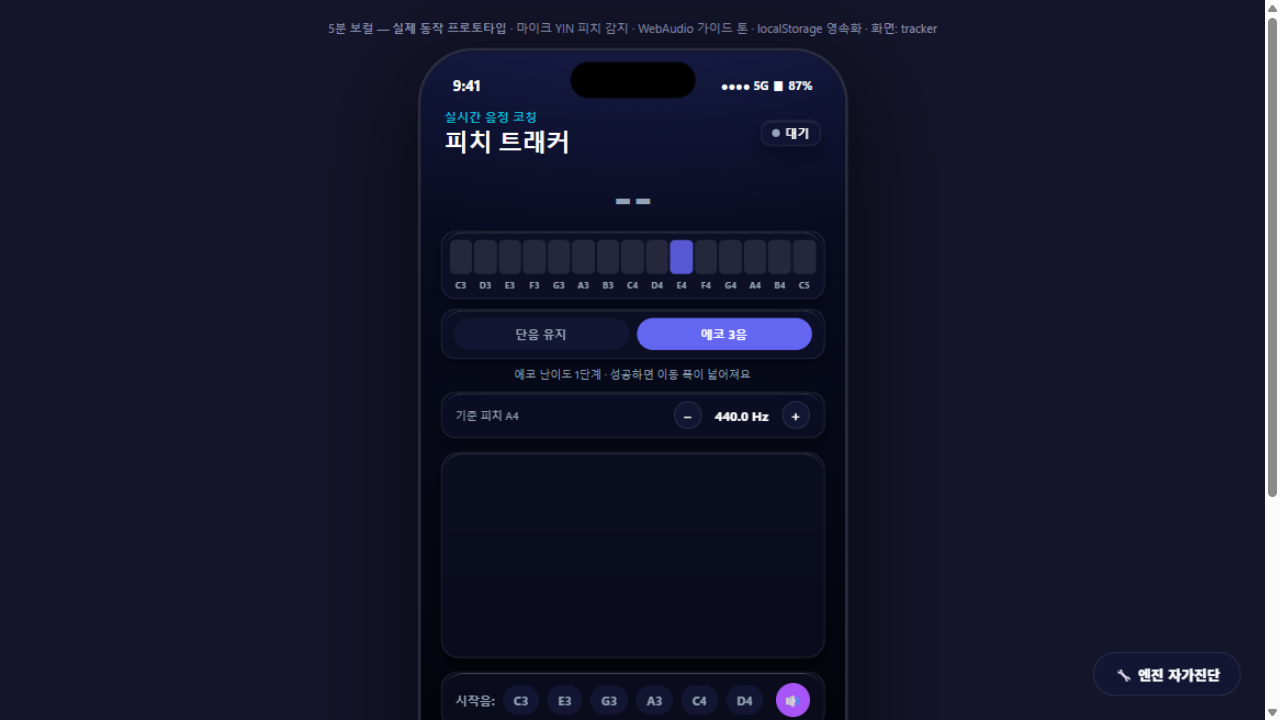
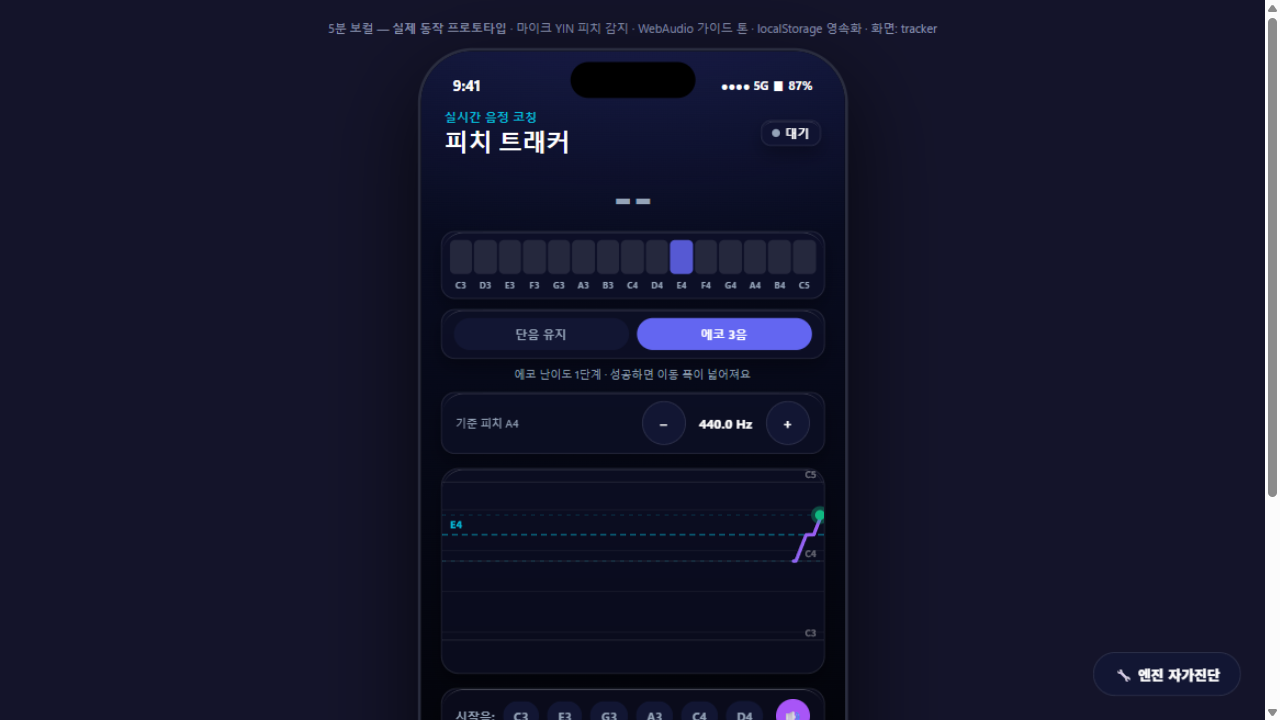
feat: 비전 QA 하네스(#qa 시드) + 44pt 터치타깃 + 칩 스크롤 페이드 + 활성 상태 스크린샷

diff --git a/preview/live.html b/preview/live.html
@@ -771,9 +771,9 @@ function screenTracker(){
 
  <div class="glass" style="margin:10px 20px 0;padding:8px 14px;display:flex;align-items:center;gap:10px;border-radius:14px;">
  <span class="cap2" style="color:var(--text-secondary);">기준 피치 A4</span><div style="flex:1"></div>
- <span class="btn-ghost" style="width:28px;height:28px;border-radius:50%;padding:0;display:flex;align-items:center;justify-content:center;" onclick="setA4(-0.5)">−</span>
+ <span class="btn-ghost" style="width:44px;height:44px;border-radius:50%;padding:0;display:flex;align-items:center;justify-content:center;" onclick="setA4(-0.5)">−</span>
  <span style="font-size:13px;font-weight:800;font-variant-numeric:tabular-nums;min-width:60px;text-align:center;">${a4Ref().toFixed(1)} Hz</span>
- <span class="btn-ghost" style="width:28px;height:28px;border-radius:50%;padding:0;display:flex;align-items:center;justify-content:center;" onclick="setA4(0.5)">+</span>
+ <span class="btn-ghost" style="width:44px;height:44px;border-radius:50%;padding:0;display:flex;align-items:center;justify-content:center;" onclick="setA4(0.5)">+</span>
  </div>
 
  <div class="glass" style="margin:14px 20px 0;height:206px;border-radius:18px;position:relative;overflow:hidden;">
@@ -1140,10 +1140,10 @@ function screenLab(){
  oninput="labSearch(this.value)">
  </div>
 
- <div style="display:flex;gap:8px;padding:12px 20px 4px;overflow:hidden;">
- <span class="chip ${!App.lab.cat && !App.lab.favOnly?'on':''}" onclick="labFilter(null)">전체 보기</span>
- <span class="chip ${App.lab.favOnly?'on':''}" style="${App.lab.favOnly?'background:var(--vocal-warning);':''}" onclick="labFav()">★ 즐겨찾기 ${favs.size}</span>
- ${CAT_LIST.map(([id,name,e])=>`<span class="chip ${App.lab.cat===id?'on':''}" onclick="labFilter('${id}')">${e} ${name}</span>`).join("")}
+ <div style="display:flex;gap:8px;padding:12px 20px 4px;overflow-x:auto;-webkit-mask-image:linear-gradient(90deg,#000 90%,transparent);mask-image:linear-gradient(90deg,#000 90%,transparent);">
+ <span class="chip ${!App.lab.cat && !App.lab.favOnly?'on':''}" style="flex-shrink:0;" onclick="labFilter(null)">전체 보기</span>
+ <span class="chip ${App.lab.favOnly?'on':''}" style="flex-shrink:0;${App.lab.favOnly?'background:var(--vocal-warning);':''}" onclick="labFav()">★ 즐겨찾기 ${favs.size}</span>
+ ${CAT_LIST.map(([id,name,e])=>`<span class="chip ${App.lab.cat===id?'on':''}" style="flex-shrink:0;" onclick="labFilter('${id}')">${e} ${name}</span>`).join("")}
  </div>
 
  ${(!App.lab.cat && !App.lab.q && !App.lab.favOnly) ? `
@@ -1352,6 +1352,40 @@ window.runSelfTest = runSelfTest;
 document.getElementById("selftest").addEventListener("click", () => runSelfTest());
 
 // 시작
+// ---------- 비전 QA·비주얼 회귀 하네스: #qa=<base64 JSON> ----------
+// 부팅 시 1회 상태를 시딩한다. 프로덕션 동작에는 영향 없음(해시 없으면 무시).
+(function(){
+ const m = location.hash.match(/qa=([^&]+)/);
+ if (!m) return;
+ try {
+  const seed = JSON.parse(atob(decodeURIComponent(m[1])));
+  if (seed.onboarded) finishOnboarding();
+  if (seed.pitchRecords) Store.data.pitchRecords = seed.pitchRecords;
+  if (seed.sessions) Store.data.sessions = seed.sessions;
+  if (seed.range) Store.data.range = seed.range;
+  Store.save();
+  if (seed.screen) go(seed.screen);
+  if (seed.tracker){
+   go("tracker");
+   const t = seed.tracker;
+   if (t.mode) setTrMode(t.mode);
+   if (t.midis){ App.echo.midis = t.midis; App.echo.idx = t.idx || 0; }
+   if (t.traj){
+    const f = m2 => 440 * Math.pow(2, (m2 - 69) / 12);
+    App.history = t.traj.map((m, i) => ({
+     f: f(m), note: "x", cents: 0, onPitch: t.midis ? t.midis.includes(m) : false,
+     t: Date.now() - ((t.traj.length - i) * 280),
+    }));
+   }
+   if (t.bins){ App.bins = new Array(12).fill(0); t.bins.forEach(b => App.bins[b[0]] = b[1]); }
+   if (typeof t.score === "number"){ App.lastScore = t.score; App.voiced = 40; App.hits = Math.round(40 * t.score / 100); }
+   render(); drawCanvas();
+   const acc = document.getElementById("acc");
+   if (acc && App.voiced) acc.textContent = Math.round(App.hits / App.voiced * 100) + "%";
+  }
+ } catch(e){ console.warn("qa seed failed", e); }
+})();
+
 render();
 </script>
 </body>

diff --git a/Views/PitchTracker/PitchTrackerView.swift b/Views/PitchTracker/PitchTrackerView.swift
@@ -131,7 +131,10 @@ public struct PitchTrackerView: View {
                 Image(systemName: "minus.circle.fill")
                     .font(.title3)
                     .foregroundColor(.white.opacity(0.7))
+                    .frame(width: 44, height: 44)
+                    .contentShape(Rectangle())
             }
+            .buttonStyle(.plain)
             Text(String(format: "%.1f Hz", displayedA4))
                 .font(.caption.weight(.bold).monospacedDigit())
                 .foregroundColor(.white)
@@ -143,7 +146,10 @@ public struct PitchTrackerView: View {
                 Image(systemName: "plus.circle.fill")
                     .font(.title3)
                     .foregroundColor(.white.opacity(0.7))
+                    .frame(width: 44, height: 44)
+                    .contentShape(Rectangle())
             }
+            .buttonStyle(.plain)
         }
         .glassCard(cornerRadius: 14, padding: 10)
     }
